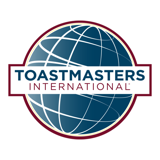
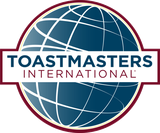
Give the mark the room it needs
At 40px the words inside the roundel were texture. The mark is 56px tall now,
40px on a phone, and the bar grew from 64px to 88px to hold it — 110px on
screen, since the desktop view is zoomed a quarter, which is close to the inch
the brand manual asks for. That is a tall sticky header, and it is the price
of using the real mark rather than approximating one.

Two things the first pass got wrong. The file as supplied has an opaque white
background, which the light card hid and the dark card showed as a white box
behind the logo; the background is flood-filled to transparent from the border
inwards, so the white inside the wordmark bar — which is part of the artwork —
stays. And the logo is not square: cropped to its own ink it is 540×448, so it
is sized by height with the width left to follow rather than squeezed into a
square box.

The nav's scroll observer keys off the bar's height, so its root margin moved
with it.

diff --git a/docs/index.html b/docs/index.html
@@ -18,12 +18,12 @@ if(l&&/^[a-zA-Z-]{2,7}$/.test(l)){document.documentElement.lang=l;
      learn about them until the CSS has parsed. -->
 <link rel="preload" href="fonts/Montserrat-Variable.woff2" as="font" type="font/woff2" crossorigin>
 <link rel="preload" href="fonts/SourceSans3-Variable.woff2" as="font" type="font/woff2" crossorigin>
-<link rel="stylesheet" href="styles.css?v=81a6328c96">
+<link rel="stylesheet" href="styles.css?v=ede5172e95">
 <!-- Without this the fetch inside app.js cannot start until the script has
      downloaded and run. The index names the district's own two files, so it is
      the one thing worth warming before the script knows which district it is. -->
 <link rel="preload" href="districts.json?v=4f9188650d" as="fetch" type="application/json" crossorigin>
-<script>window.__ASSETS__={"styles.css":"styles.css?v=81a6328c96","app.js":"app.js?v=15c6e4e7b7","districts.json":"districts.json?v=4f9188650d","i18n/ar.json":"i18n/ar.json?v=419be18fa8","i18n/de.json":"i18n/de.json?v=eef44ae2e0","i18n/es.json":"i18n/es.json?v=83f3e8ba1b","i18n/fr.json":"i18n/fr.json?v=0c8a98faae","i18n/zh-Hans.json":"i18n/zh-Hans.json?v=56cb2abfbc","i18n/zh-Hant.json":"i18n/zh-Hant.json?v=7d17da8e79"};</script>
+<script>window.__ASSETS__={"styles.css":"styles.css?v=ede5172e95","app.js":"app.js?v=af05213bfc","districts.json":"districts.json?v=4f9188650d","i18n/ar.json":"i18n/ar.json?v=419be18fa8","i18n/de.json":"i18n/de.json?v=eef44ae2e0","i18n/es.json":"i18n/es.json?v=83f3e8ba1b","i18n/fr.json":"i18n/fr.json?v=0c8a98faae","i18n/zh-Hans.json":"i18n/zh-Hans.json?v=56cb2abfbc","i18n/zh-Hant.json":"i18n/zh-Hant.json?v=7d17da8e79"};</script>
 </head>
 <body>
 
@@ -37,7 +37,7 @@ if(l&&/^[a-zA-Z-]{2,7}$/.test(l)){document.documentElement.lang=l;
          so the wordmark beside it names only the district and the board. -->
     <img class="tmlogo" src="assets/toastmasters-160.png"
       srcset="assets/toastmasters-160.png 1x, assets/toastmasters-320.png 2x"
-      width="40" height="40" alt="Toastmasters International" decoding="async">
+      width="160" height="133" alt="Toastmasters International" decoding="async">
     <!-- The district names the board but does not open it: one picker, and it
          is the one in the utilities that says what it does in words. -->
     <div class="brandtext">
@@ -461,6 +461,6 @@ if(l&&/^[a-zA-Z-]{2,7}$/.test(l)){document.documentElement.lang=l;
   <div><a href="https://github.com/adrianwongstudio/tm-dcp" id="footRepo" data-i18n>Source</a></div>
 </div></footer>
 
-<script src="app.js?v=15c6e4e7b7" defer></script>
+<script src="app.js?v=af05213bfc" defer></script>
 </body>
 </html>

diff --git a/docs/styles.css b/docs/styles.css
@@ -127,17 +127,17 @@ a{color:inherit}
    district and the theme have to stay in reach the whole way down. */
 .mast{position:sticky;top:0;z-index:30;border-bottom:1px solid var(--line);background:var(--card)}
 .mast .wrap{display:flex;align-items:center;justify-content:space-between;gap:20px;
-  min-height:64px;padding-block:0;flex-wrap:wrap}
+  min-height:88px;padding-block:0;flex-wrap:wrap}
 .brandmark{display:flex;align-items:center;gap:14px;min-width:0;text-decoration:none;color:inherit}
 /* The Toastmasters mark, at a size where the roundel still reads as itself.
    It is the organisation's own artwork and is never recoloured, so it keeps
    its full-colour form in both themes; the wordmark bar through it is white,
    which is what carries it on the dark ground. */
-.tmlogo{width:40px;height:40px;flex:none;display:block}
+.tmlogo{height:56px;width:auto;flex:none;display:block}
 /* One line, baseline-aligned: the title and the organisation read as a single
    wordmark rather than an eyebrow stacked over a heading. */
 .brandtext{display:flex;align-items:baseline;gap:9px;min-width:0;flex-wrap:wrap}
-.brandname{font-family:Montserrat,"Segoe UI",Arial,sans-serif;font-size:19px;font-weight:700;
+.brandname{font-family:Montserrat,"Segoe UI",Arial,sans-serif;font-size:21px;font-weight:700;
   letter-spacing:-.01em;color:var(--ink);white-space:nowrap}
 
 
@@ -749,7 +749,7 @@ th[data-k][aria-sort]{color:var(--ink)}
   .hero h1{font-size:30px;line-height:1.1}
   /* the wordmark holds one line at 375px only a size down */
   .brandname{font-size:16px}
-  .tmlogo{width:32px;height:32px}
+  .tmlogo{height:40px}
   .lede{font-size:17px}
   .stick table{table-layout:auto}
   .stick th:first-child,.stick td:first-child{width:150px;min-width:150px;

diff --git a/docs/app.js b/docs/app.js
@@ -1733,7 +1733,7 @@ function scopeDownload(kind,label,clubs){
   const io=new IntersectionObserver(es=>{
     es.forEach(e=>seen.set(e.target.id,e.isIntersecting?e.intersectionRatio:0));
     mark();
-  },{rootMargin:'-64px 0px -55% 0px',threshold:[0,.1,.35,.7,1]});
+  },{rootMargin:'-88px 0px -55% 0px',threshold:[0,.1,.35,.7,1]});
   Object.keys(OWNER).forEach(id=>{const el=$(id); if(el) io.observe(el);});
 })();
 

diff --git a/DESIGN.md b/DESIGN.md
@@ -220,23 +220,30 @@ pre-zoom.
 
 ### Masthead
 
-Full-bleed, 64px, `--card` ground, hairline under. Left: the Toastmasters
-International mark at 40px (32px under 768px) plus a one-line wordmark — the
-district and *Club Health* in Montserrat 19px/700.
+Full-bleed, 88px, `--card` ground, hairline under. Left: the Toastmasters
+International mark at 56px tall (40px under 768px) plus a one-line wordmark —
+the district and *Club Health* in Montserrat 21px/700.
 
 **The mark carries the organisation's name, so the wordmark no longer does.**
 It used to end with TOASTMASTERS at 12px/700 uppercase beside a gavel of the
-board's own drawing; with the real logo in place that said it twice. The logo
-is the organisation's own artwork and is never recoloured, so it keeps its
-full-colour form in both themes — the white wordmark bar through the roundel
-is what carries it on the dark ground.
+board's own drawing; with the real logo in place that said it twice. What is
+left names the district and the board: the two things the mark cannot say.
 
-**It is under the brand manual's minimum size.** The full lockup is meant to
-run about an inch wide; at 40px in a 64px bar the words inside the roundel are
-texture rather than type. The mark is still recognisably itself, which is what
-a masthead needs, but a bar tall enough to show the logo at its intended size
-would be a different masthead. Worth knowing before anyone quotes the manual
-at it.
+**The bar grew to hold it.** 64px could only carry the logo at a size where
+the words inside the roundel were texture rather than type. At 88px — 110px on
+screen, since the desktop view is zoomed a quarter — the lockup is close to
+the inch the brand manual asks for and reads as itself. That is a tall sticky
+header, and it is the price of using the real mark rather than approximating
+one.
+
+**The artwork is never recoloured**, so it keeps its full-colour form in both
+themes. The file as supplied had an opaque white background, which showed as a
+white box on the dark ground; the background was flood-filled to transparent
+from the border only — the white inside the wordmark bar is part of the logo —
+and then cropped to its ink, which is why the asset is 160×133 rather than
+square. On the dark page the cream ring and the white wordmark bar are what
+carry it; it needs no reversed variant and no white plate. It ships at 160 and
+320 wide, chosen by `srcset`.
 
 Right: **four destinations, named for the task and in page order** — *This
 year*, *Areas*, *Trends*, *Clubs* — then a utility cluster (Contact, Change
